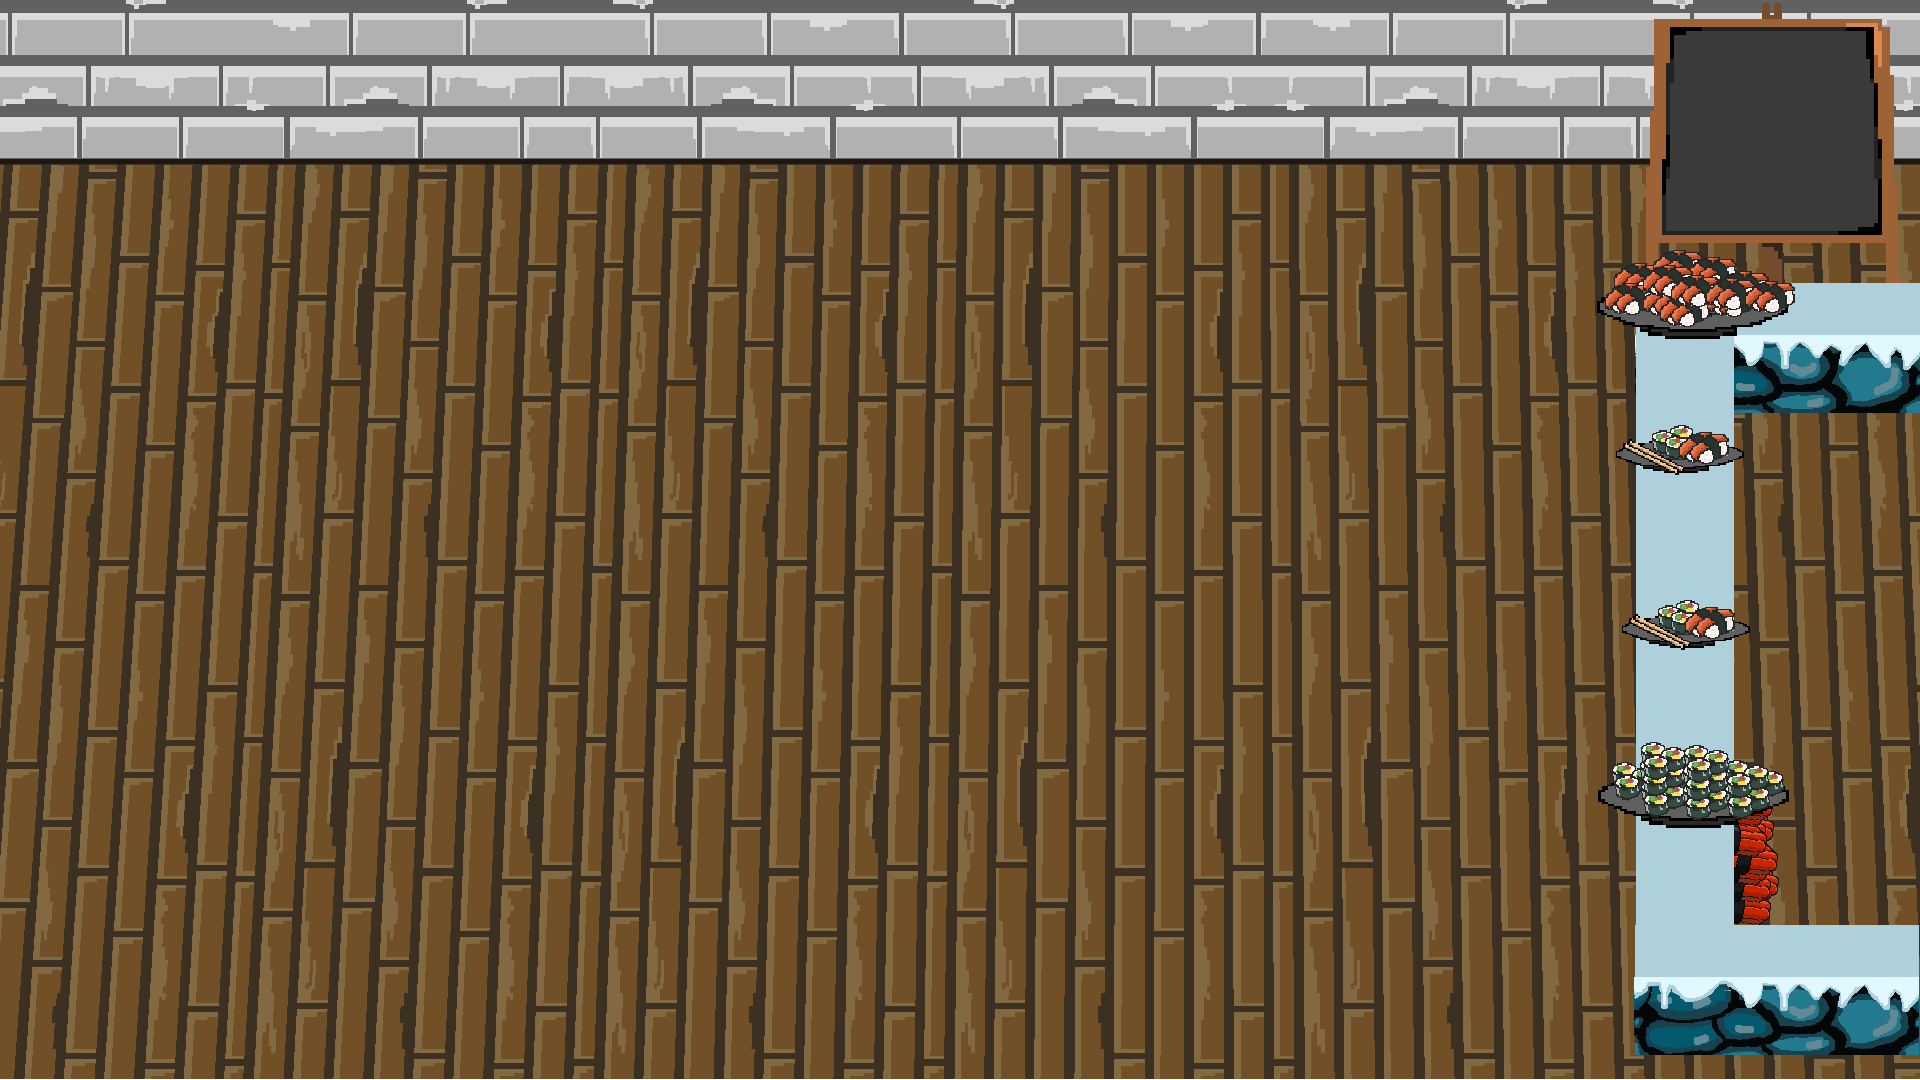
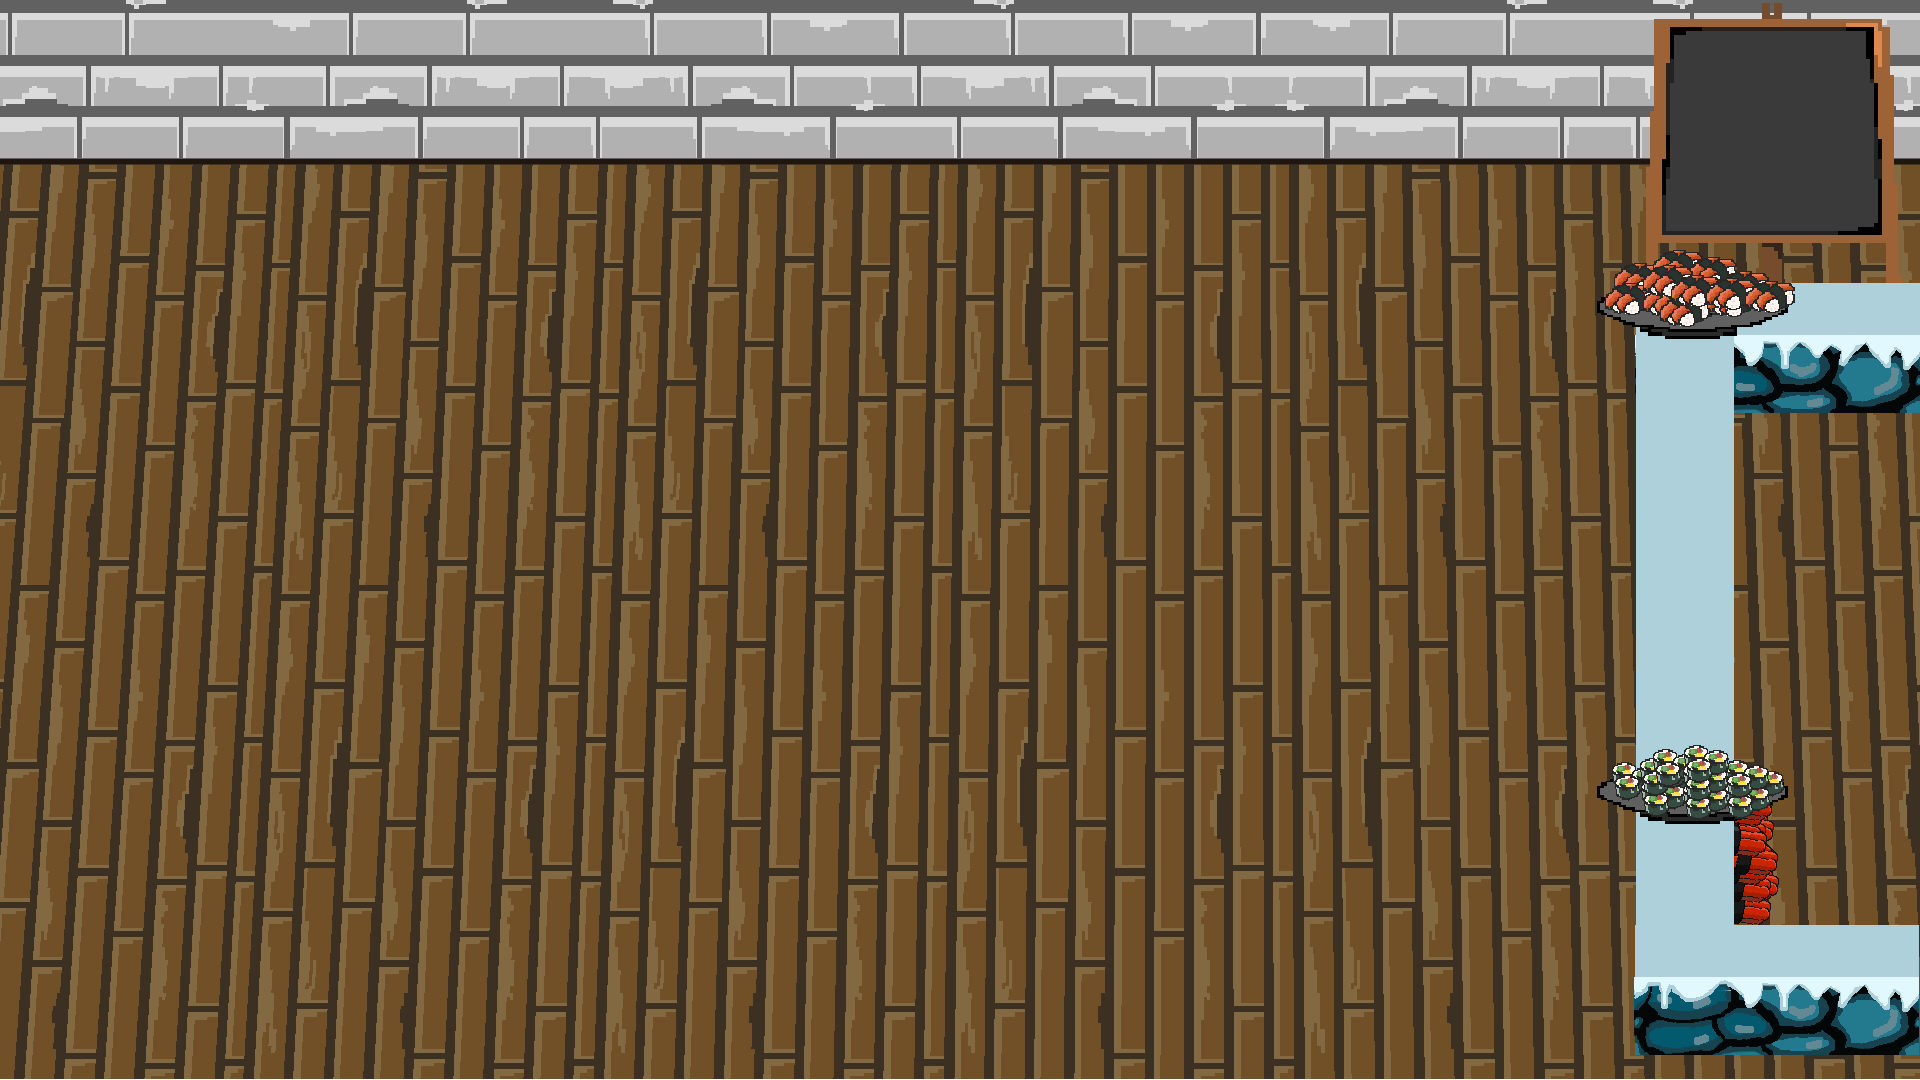
Tapper animation

Changed region(s): [[0.8438, 0.6722, 0.9062, 0.7639], [0.8438, 0.55, 0.9062, 0.6111], [0.8438, 0.3972, 0.9062, 0.4583]]

diff --git a/js/playing.js b/js/playing.js
@@ -151,7 +151,7 @@ class Playing extends Phaser.Scene{
         this.load.spritesheet('Table_852-568','assets/anim/Table_852-568.png', {frameWidth: 1420, frameHeight: 130});
         this.load.spritesheet('Table_852-284','assets/anim/Table_852-284.png', {frameWidth: 1420, frameHeight: 130});
         this.load.spritesheet('Table_568-284','assets/anim/Table_568-284.png', {frameWidth: 1420, frameHeight: 130});
-
+        this.load.spritesheet('tapper_Animation','assets/anim/tapper_Animation.png', {frameWidth: 250, frameHeight: 700});
 
         //Load audio
         this.load.audio('bgm','assets/audio/level1_bgm.mp3');
@@ -182,7 +182,8 @@ class Playing extends Phaser.Scene{
     create ()
     {
         backgroundImage = this.add.image(960, 540, 'background');
-        this.add.image(screenWidth - 80, screenHeight / 2, 'chief');
+        //this.add.image(screenWidth - 80, screenHeight / 2, 'chief');
+
 
         //Lane pictures
         var lane1 = this.add.sprite(laneImgX, row1Position + tableYOffset, 'table_1420');
@@ -190,13 +191,15 @@ class Playing extends Phaser.Scene{
         var lane3 = this.add.sprite(laneImgX, row3Position + tableYOffset, 'table_1420');
         var lane4 = this.add.sprite(laneImgX, row4Position + tableYOffset, 'table_1420');
 
+        var tapper = this.add.sprite(screenWidth - 180, screenHeight / 2 + 80, 'tapper_Animation');
+
         hpIcon1 = this.add.image(screenWidth - 128 * 2 + 32 * 4 + 30, hp_icon_y, 'penguin_head');
         hpIcon2 = this.add.image(screenWidth - 128 * 2 + 32 * 3 + 30, hp_icon_y, 'penguin_head');
         hpIcon3 = this.add.image(screenWidth - 128 * 2 + 32 * 2 + 30, hp_icon_y, 'penguin_head');
         hpIcon4 = this.add.image(screenWidth - 128 * 2 + 32 * 1 + 30, hp_icon_y, 'penguin_head');
         hpIcon5 = this.add.image(screenWidth - 128 * 2 + 32 * 0 + 30, hp_icon_y, 'penguin_head');
 
-        player = this.physics.add.image(screenWidth - playerXOffset, 0 + 100, 'player').setOrigin(0,0);
+        player = this.physics.add.image(screenWidth - playerXOffset, 0 + 100, 'player').setOrigin(0,0.2);
 
         arrow_key_icon = this.add.image(screenWidth - 128 * 2 - 16, screenHeight - 128, 'arrow_key_icon');
         sushi_icon = this.add.image(screenWidth - 128, screenHeight - 128, 'sushi_icon');
@@ -406,6 +409,13 @@ class Playing extends Phaser.Scene{
             frameRate: 10,
             repeat: 0
         });
+        this.anims.create({
+            key: 'tapper_anim',
+            frames: this.anims.generateFrameNumbers('tapper_Animation',{ start: 0, end: 18}),
+            frameRate: 2,
+            repeat: -1
+        });
+        tapper.anims.play('tapper_anim');
         //lane breaking animations here =======================================
         this.anims.create({
             key: 'Table_1420-1136_Anim',
